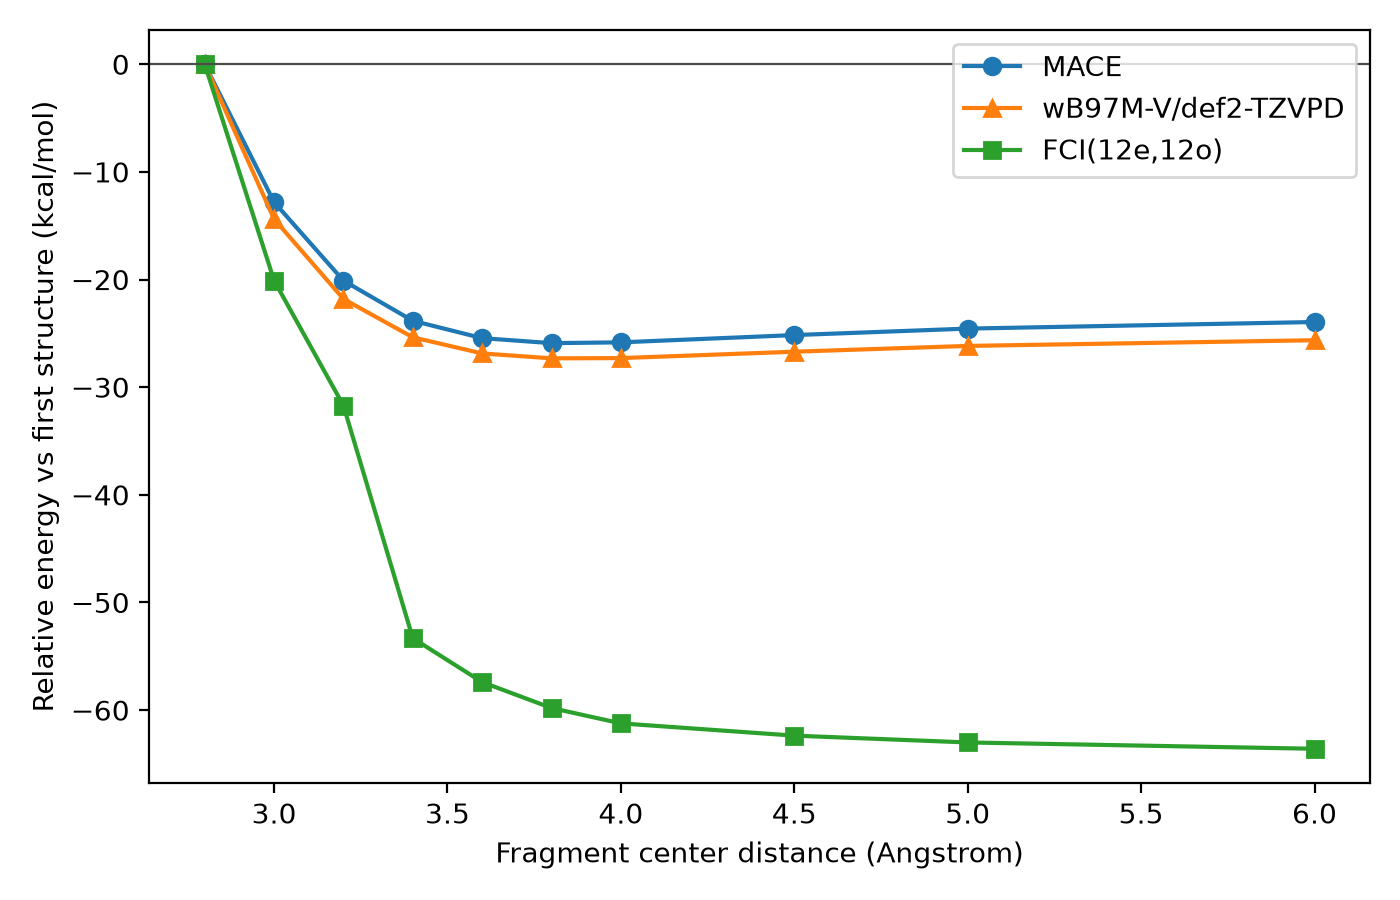
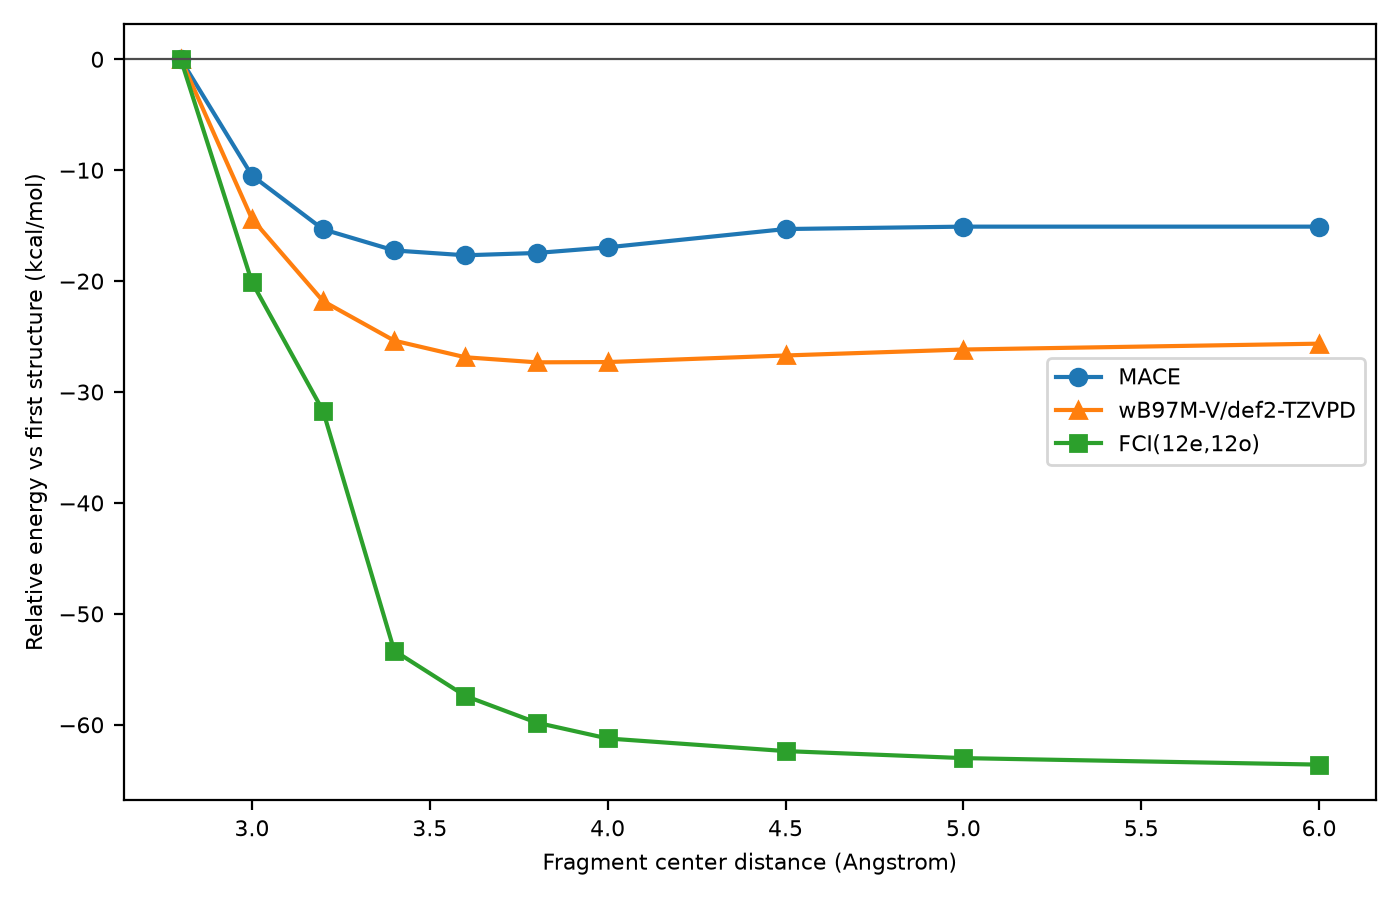
model swap

Changed region(s): [[0.0614, 0.0, 0.9829, 0.9644], [0.0, 0.1244, 0.1229, 0.84]]

diff --git a/scripts/compute_mace_fci_scan.py b/scripts/compute_mace_fci_scan.py
@@ -60,7 +60,7 @@ def parse_args() -> argparse.Namespace:
     parser.add_argument(
         "--mace-model-path",
         type=Path,
-        default=Path("mace_model/MACE-omol-0-extra-large-1024.model"),
+        default=Path("mace_model/MACE-OFF23_large.model"),
         help="Path to a local MACE model. If omitted, installed MACE factory calculators are tried.",
     )
     parser.add_argument(
